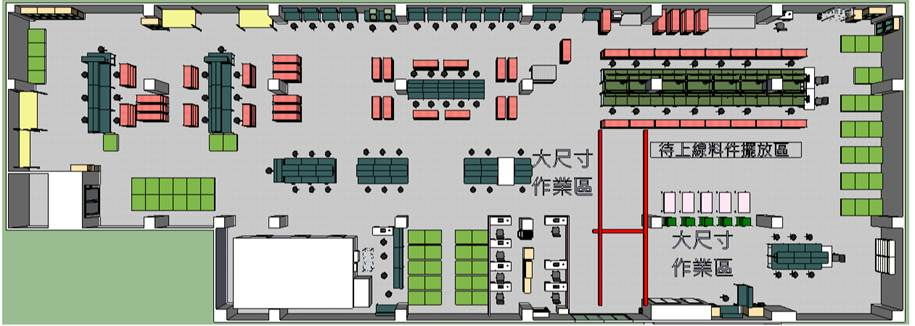
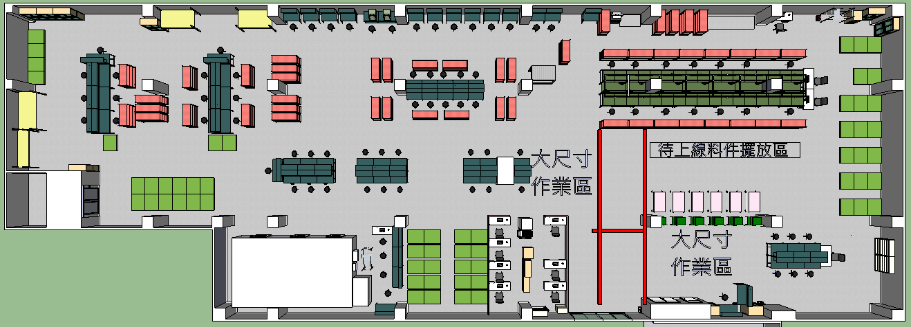
Update 5F's totalMap Auto trim modelName field in PreAssYModuleStandardTime.class

Changed region(s): [[0.0, 0.0, 1.0, 1.0], [0.0922, 0.1534, 0.3381, 0.4908], [0.2766, 0.4601, 0.461, 0.5828]]

diff --git a/src/main/webapp/js/totalMap-setting/5f.js b/src/main/webapp/js/totalMap-setting/5f.js
@@ -17,7 +17,8 @@ var titleGroup = [
     //pkg
     {lineName: "LF", x: 300, y: 40},
     {lineName: "LG", x: 210, y: 40},
-    {lineName: "LH", x: 125, y: 40}
+    {lineName: "LH", x: 125, y: 40},
+    {lineName: "5F_CELL", x: 1060, y: 275}
 //    {lineName: "FQC", x: 210, y: 240}
 ];
 
@@ -30,11 +31,14 @@ var testGroup = [
 var babGroup = [
     {people: 4, x: 930, y: 55, lineName: "LA"},
     {people: 4, x: 930, y: 170, lineName: "LB"},
+    {people: 3, x: 1000, y: 345, lineName: "LC_1"},
+    {people: 3, x: 1000, y: 410, lineName: "LC_2"},
     {people: 3, x: 795, y: 170, lineName: "LD"},
     {people: 3, x: 795, y: 55, lineName: "LE"},
     {people: 3, x: 320, y: 100, lineName: "LF", straight: true, reverse: true},
     {people: 3, x: 230, y: 100, lineName: "LG", straight: true, reverse: true},
-    {people: 3, x: 160, y: 100, lineName: "LH", straight: true, reverse: true}
+    {people: 3, x: 160, y: 100, lineName: "LH", straight: true, reverse: true},
+    {people: 6, x: 850, y: 290, lineName: "5F_CELL"}
 ];
 
 var fqcGroup = [

diff --git a/src/main/java/com/advantech/model/PreAssyModuleStandardTime.java b/src/main/java/com/advantech/model/PreAssyModuleStandardTime.java
@@ -45,7 +45,7 @@ public class PreAssyModuleStandardTime implements Serializable, Cloneable {
 
     @Column(name = "modelName", nullable = false, length = 50, unique = true)
     public String getModelName() {
-        return modelName;
+        return modelName == null ? null : modelName.trim();
     }
 
     public void setModelName(String modelName) {
